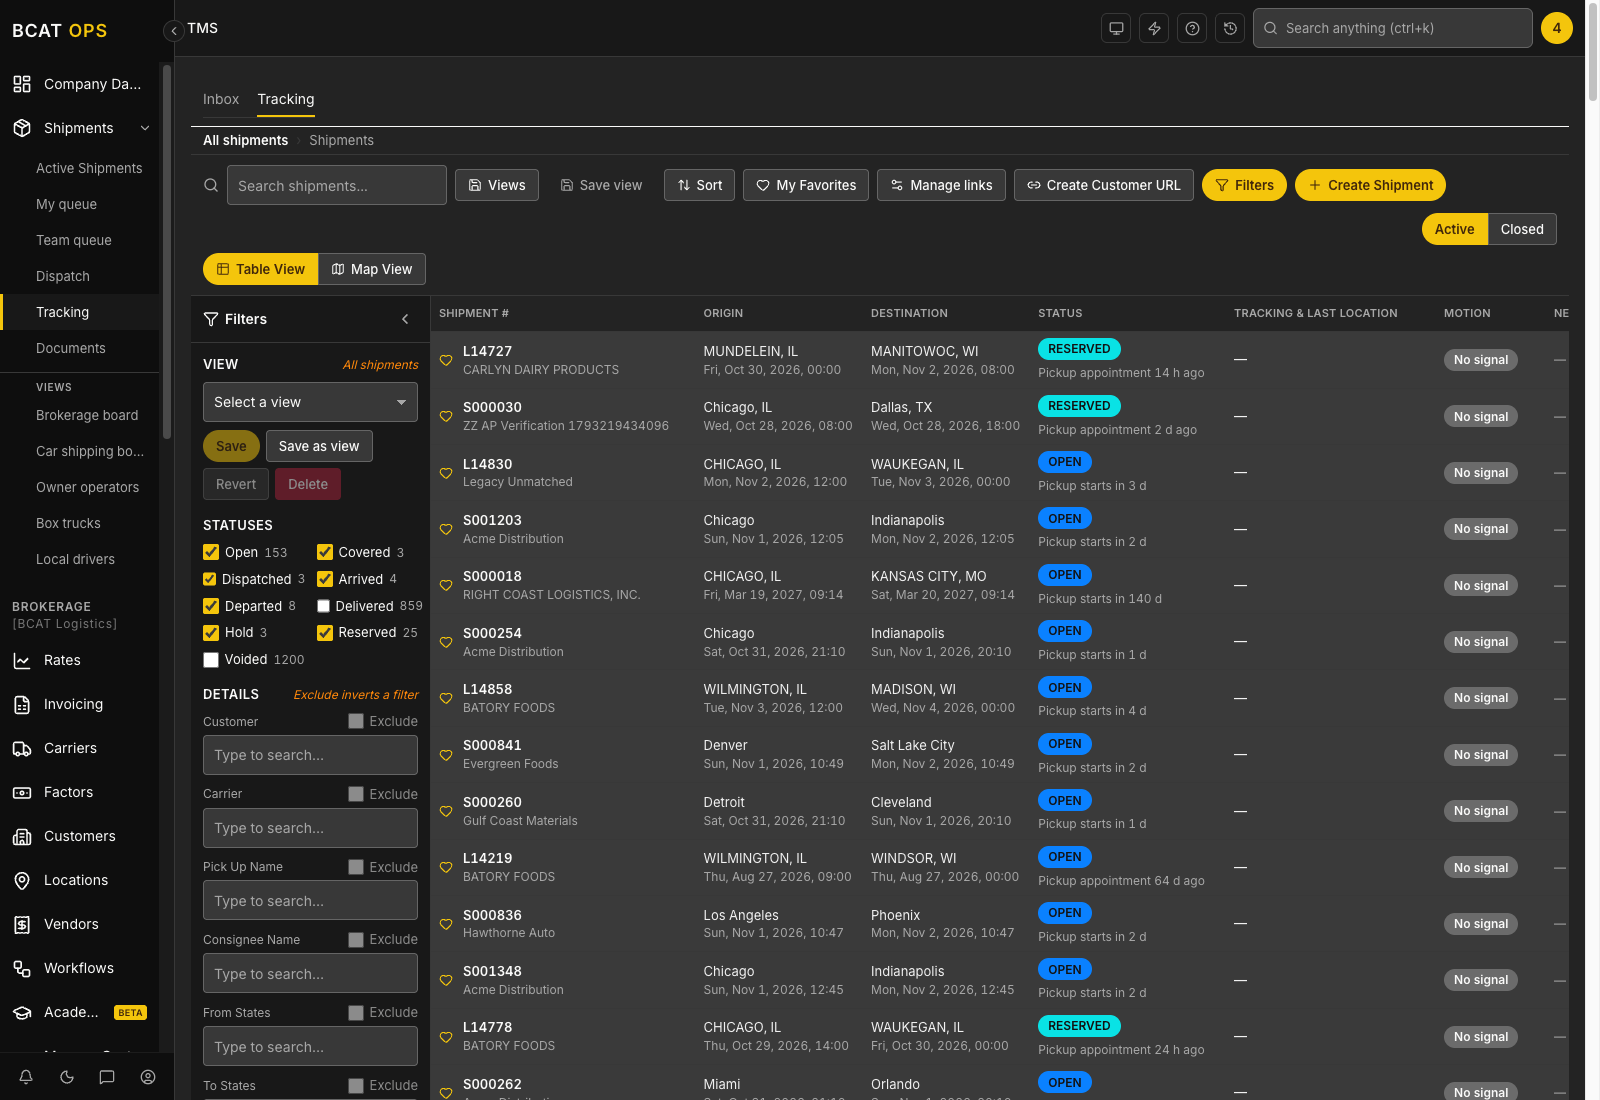
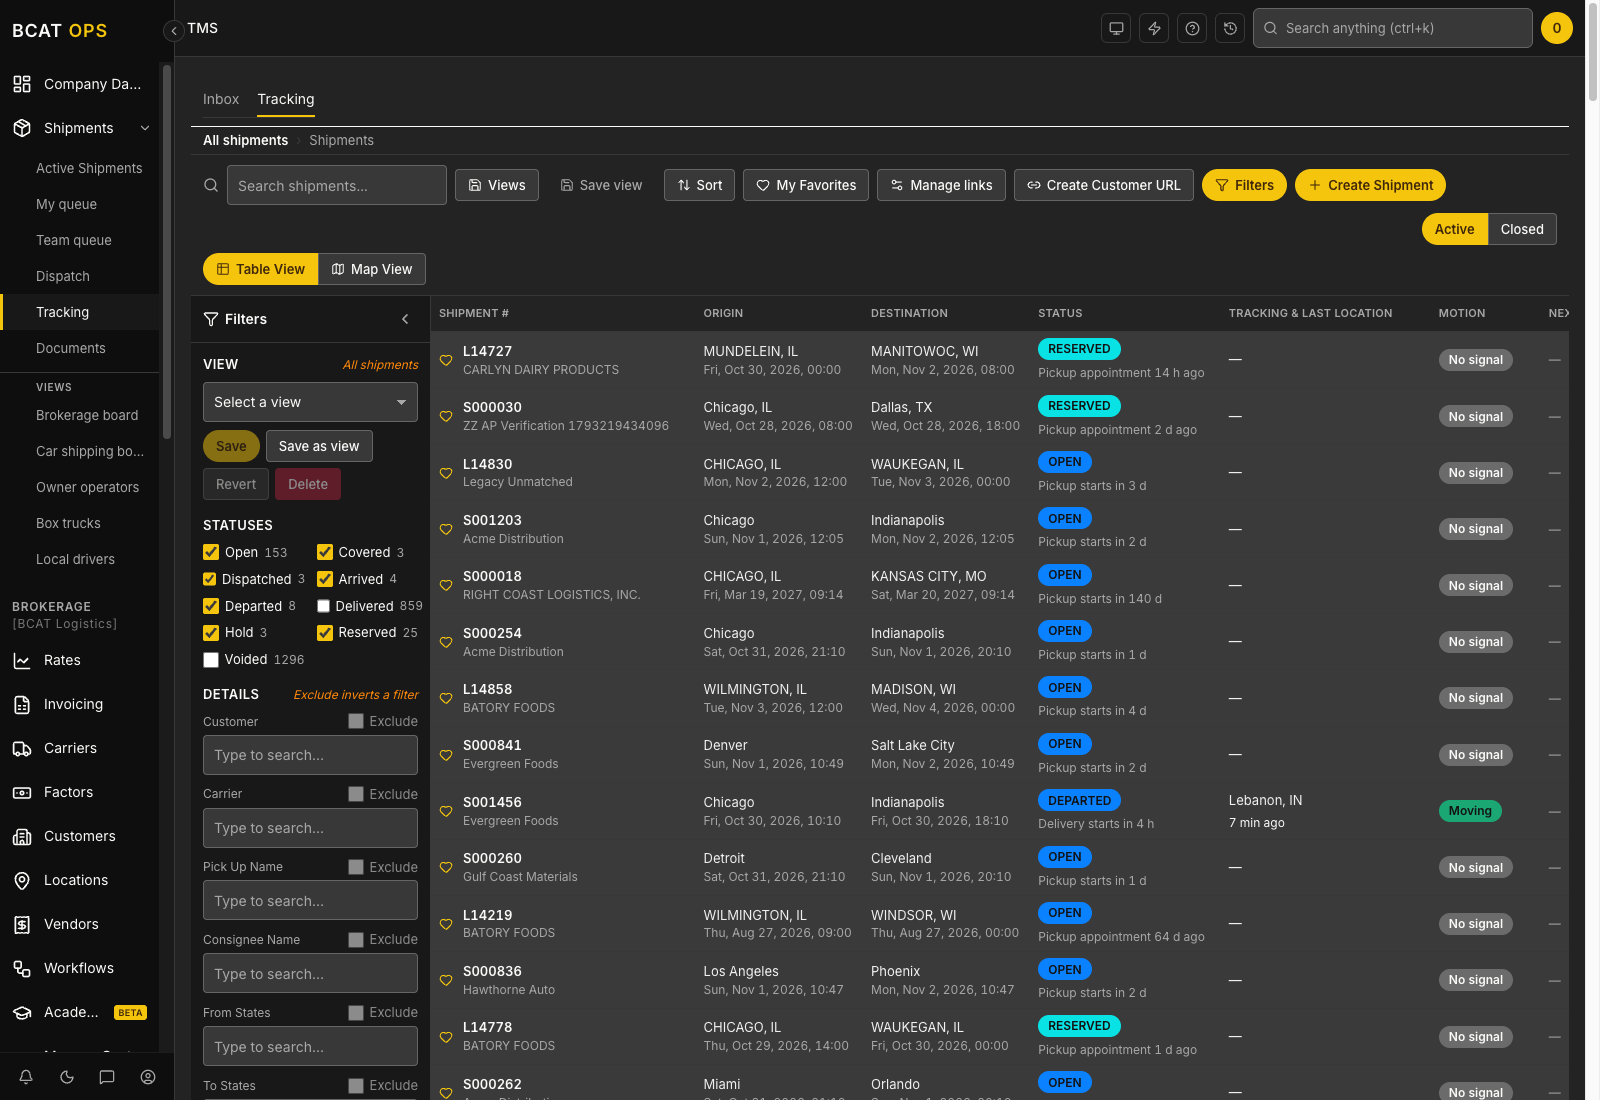
fix(tms): retire only ACTIVE demo LoadCarriers; avoid scanning hundreds of stale rows per reset

diff --git a/amplify/functions/tms-shipment-actions/demo.ts b/amplify/functions/tms-shipment-actions/demo.ts
@@ -1089,7 +1089,7 @@ export async function resetDemoData(deps: DemoDeps, input: Row, caller: Caller):
   const retireAssignments: TransactWriteItem[] = []
   for (const carrierId of demoCarrierIds) {
     const active = await deps.queryIndex(deps.tables.loadCarrier, 'loadCarriersByCarrierId', 'carrierId', carrierId)
-    for (const lc of active) {
+    for (const lc of active.filter((row) => row.status === 'ACTIVE')) {
       retireAssignments.push(
         updateTx(deps.tables.loadCarrier, String(lc.id), stampedPatch(deps, caller, { status: 'BOUNCED' }), String(lc.updatedAt ?? '')),
       )
